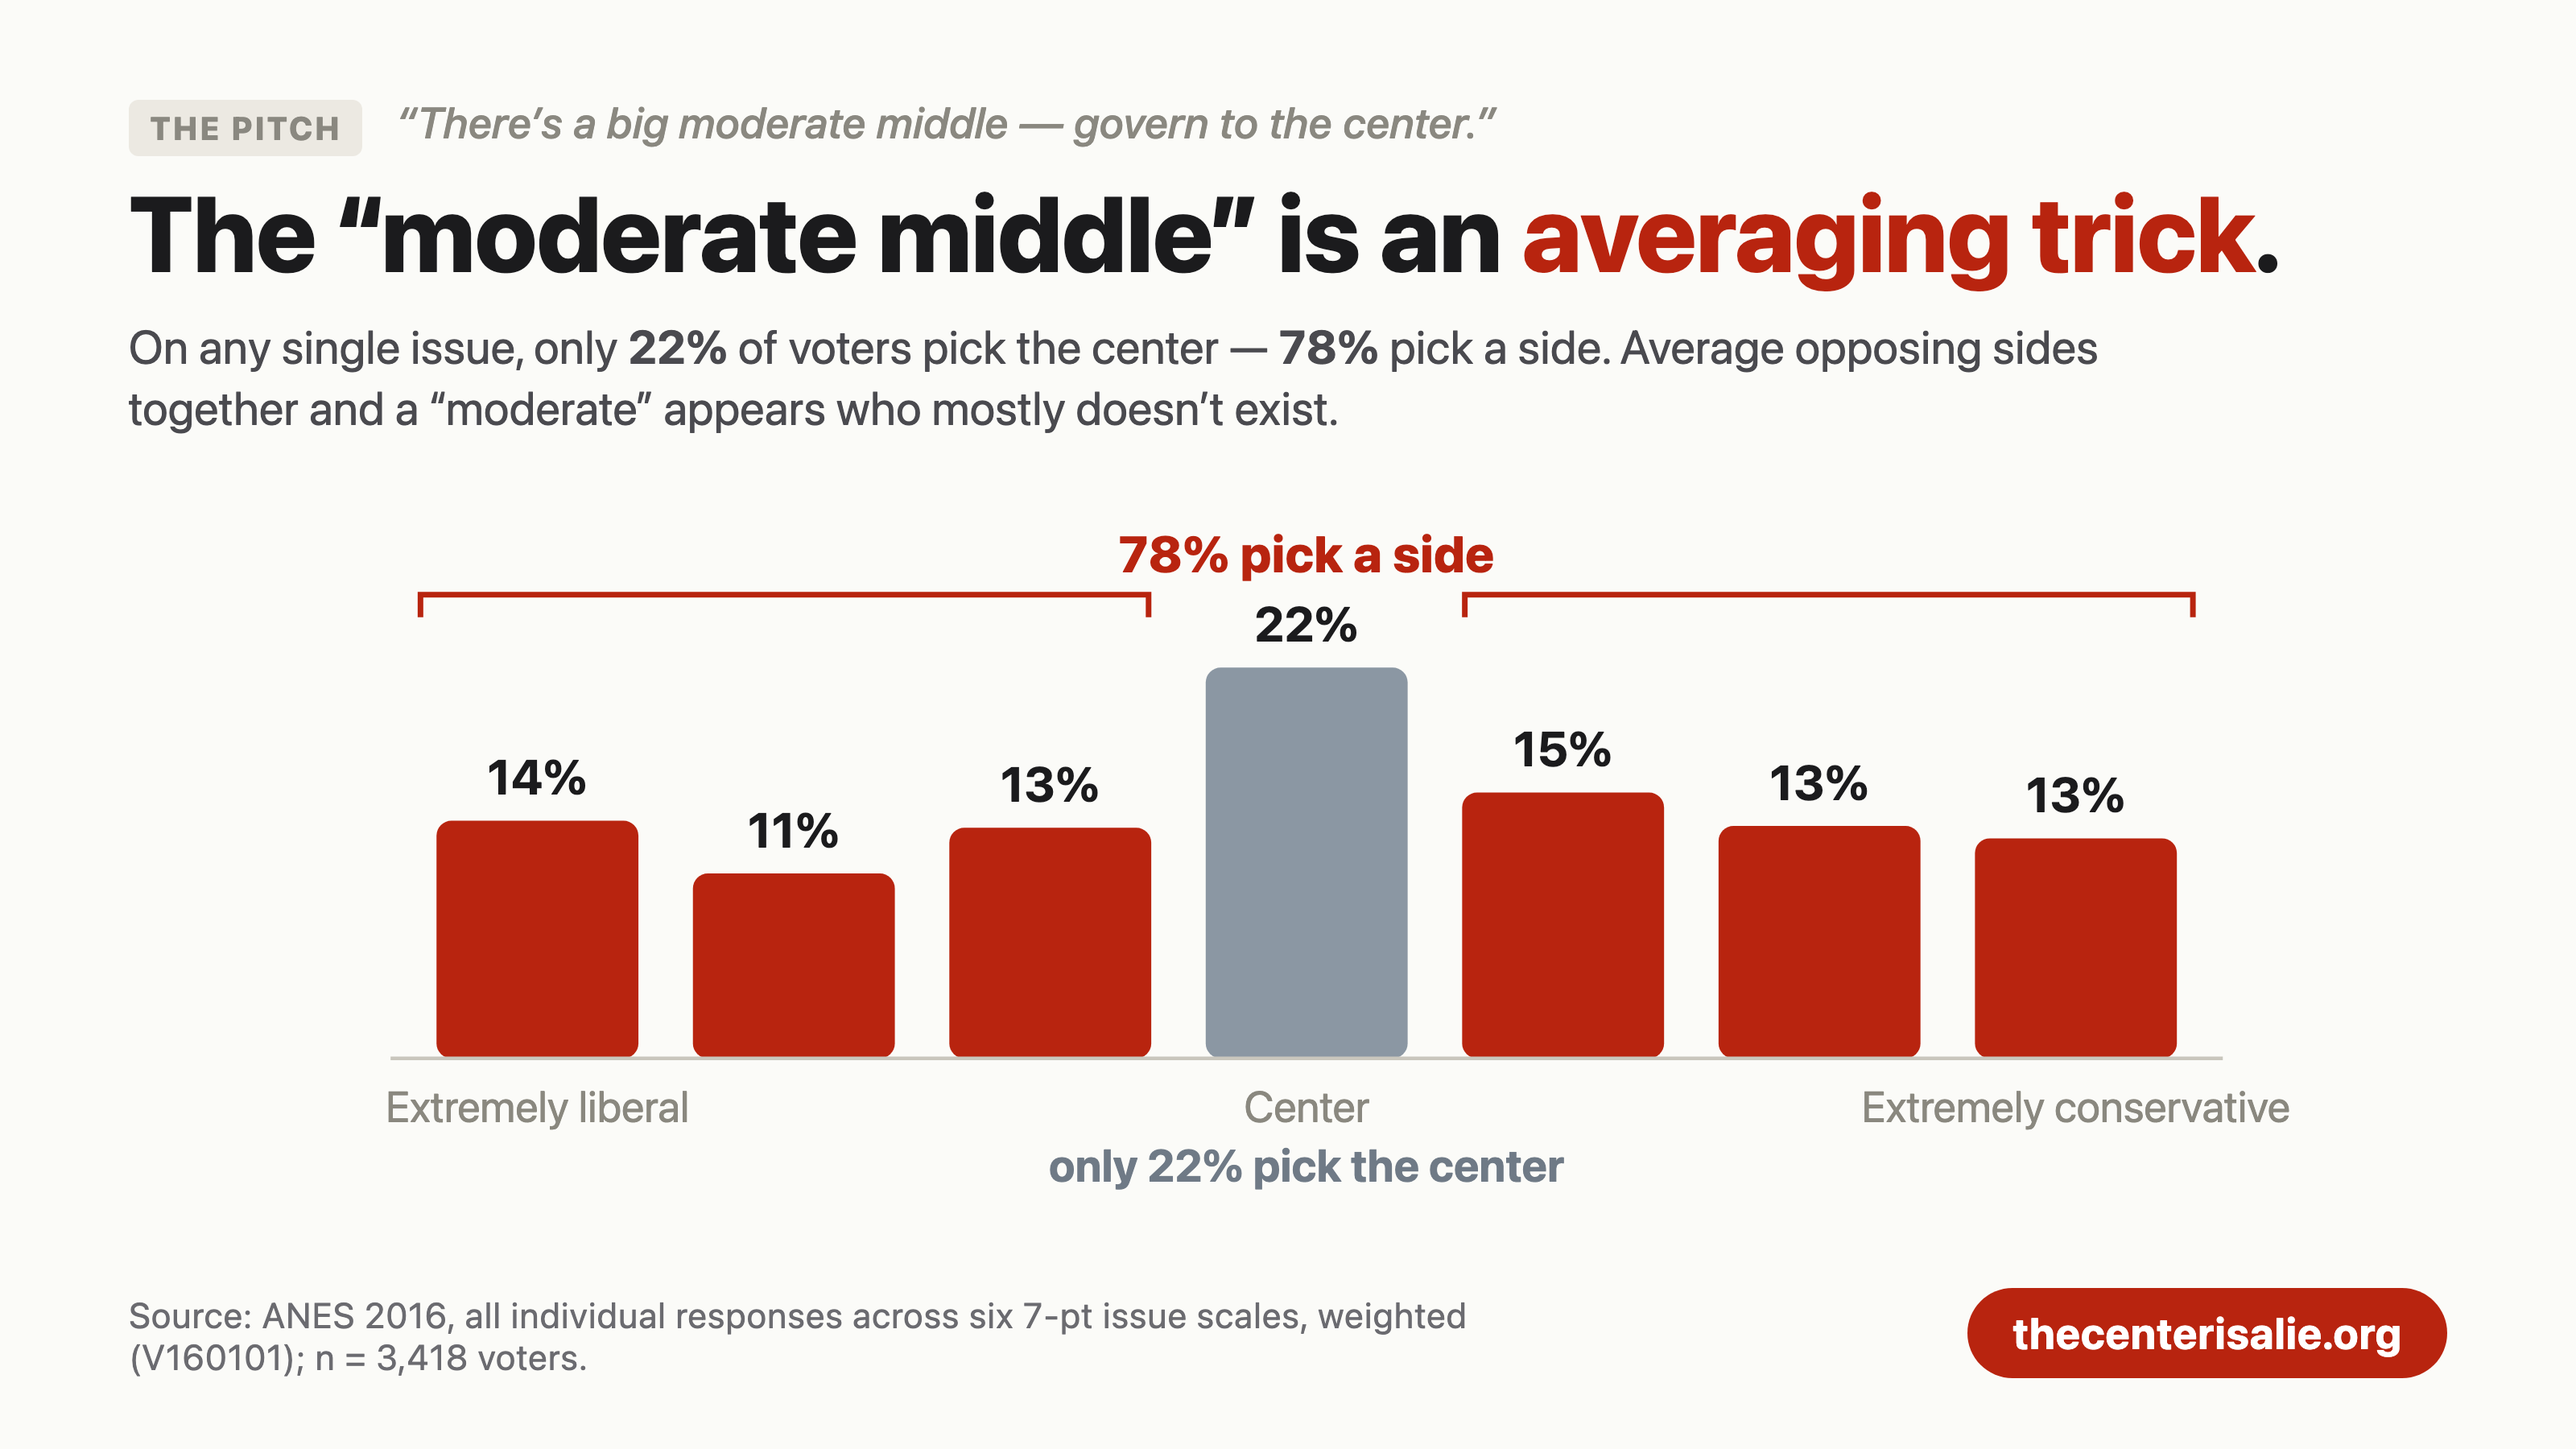
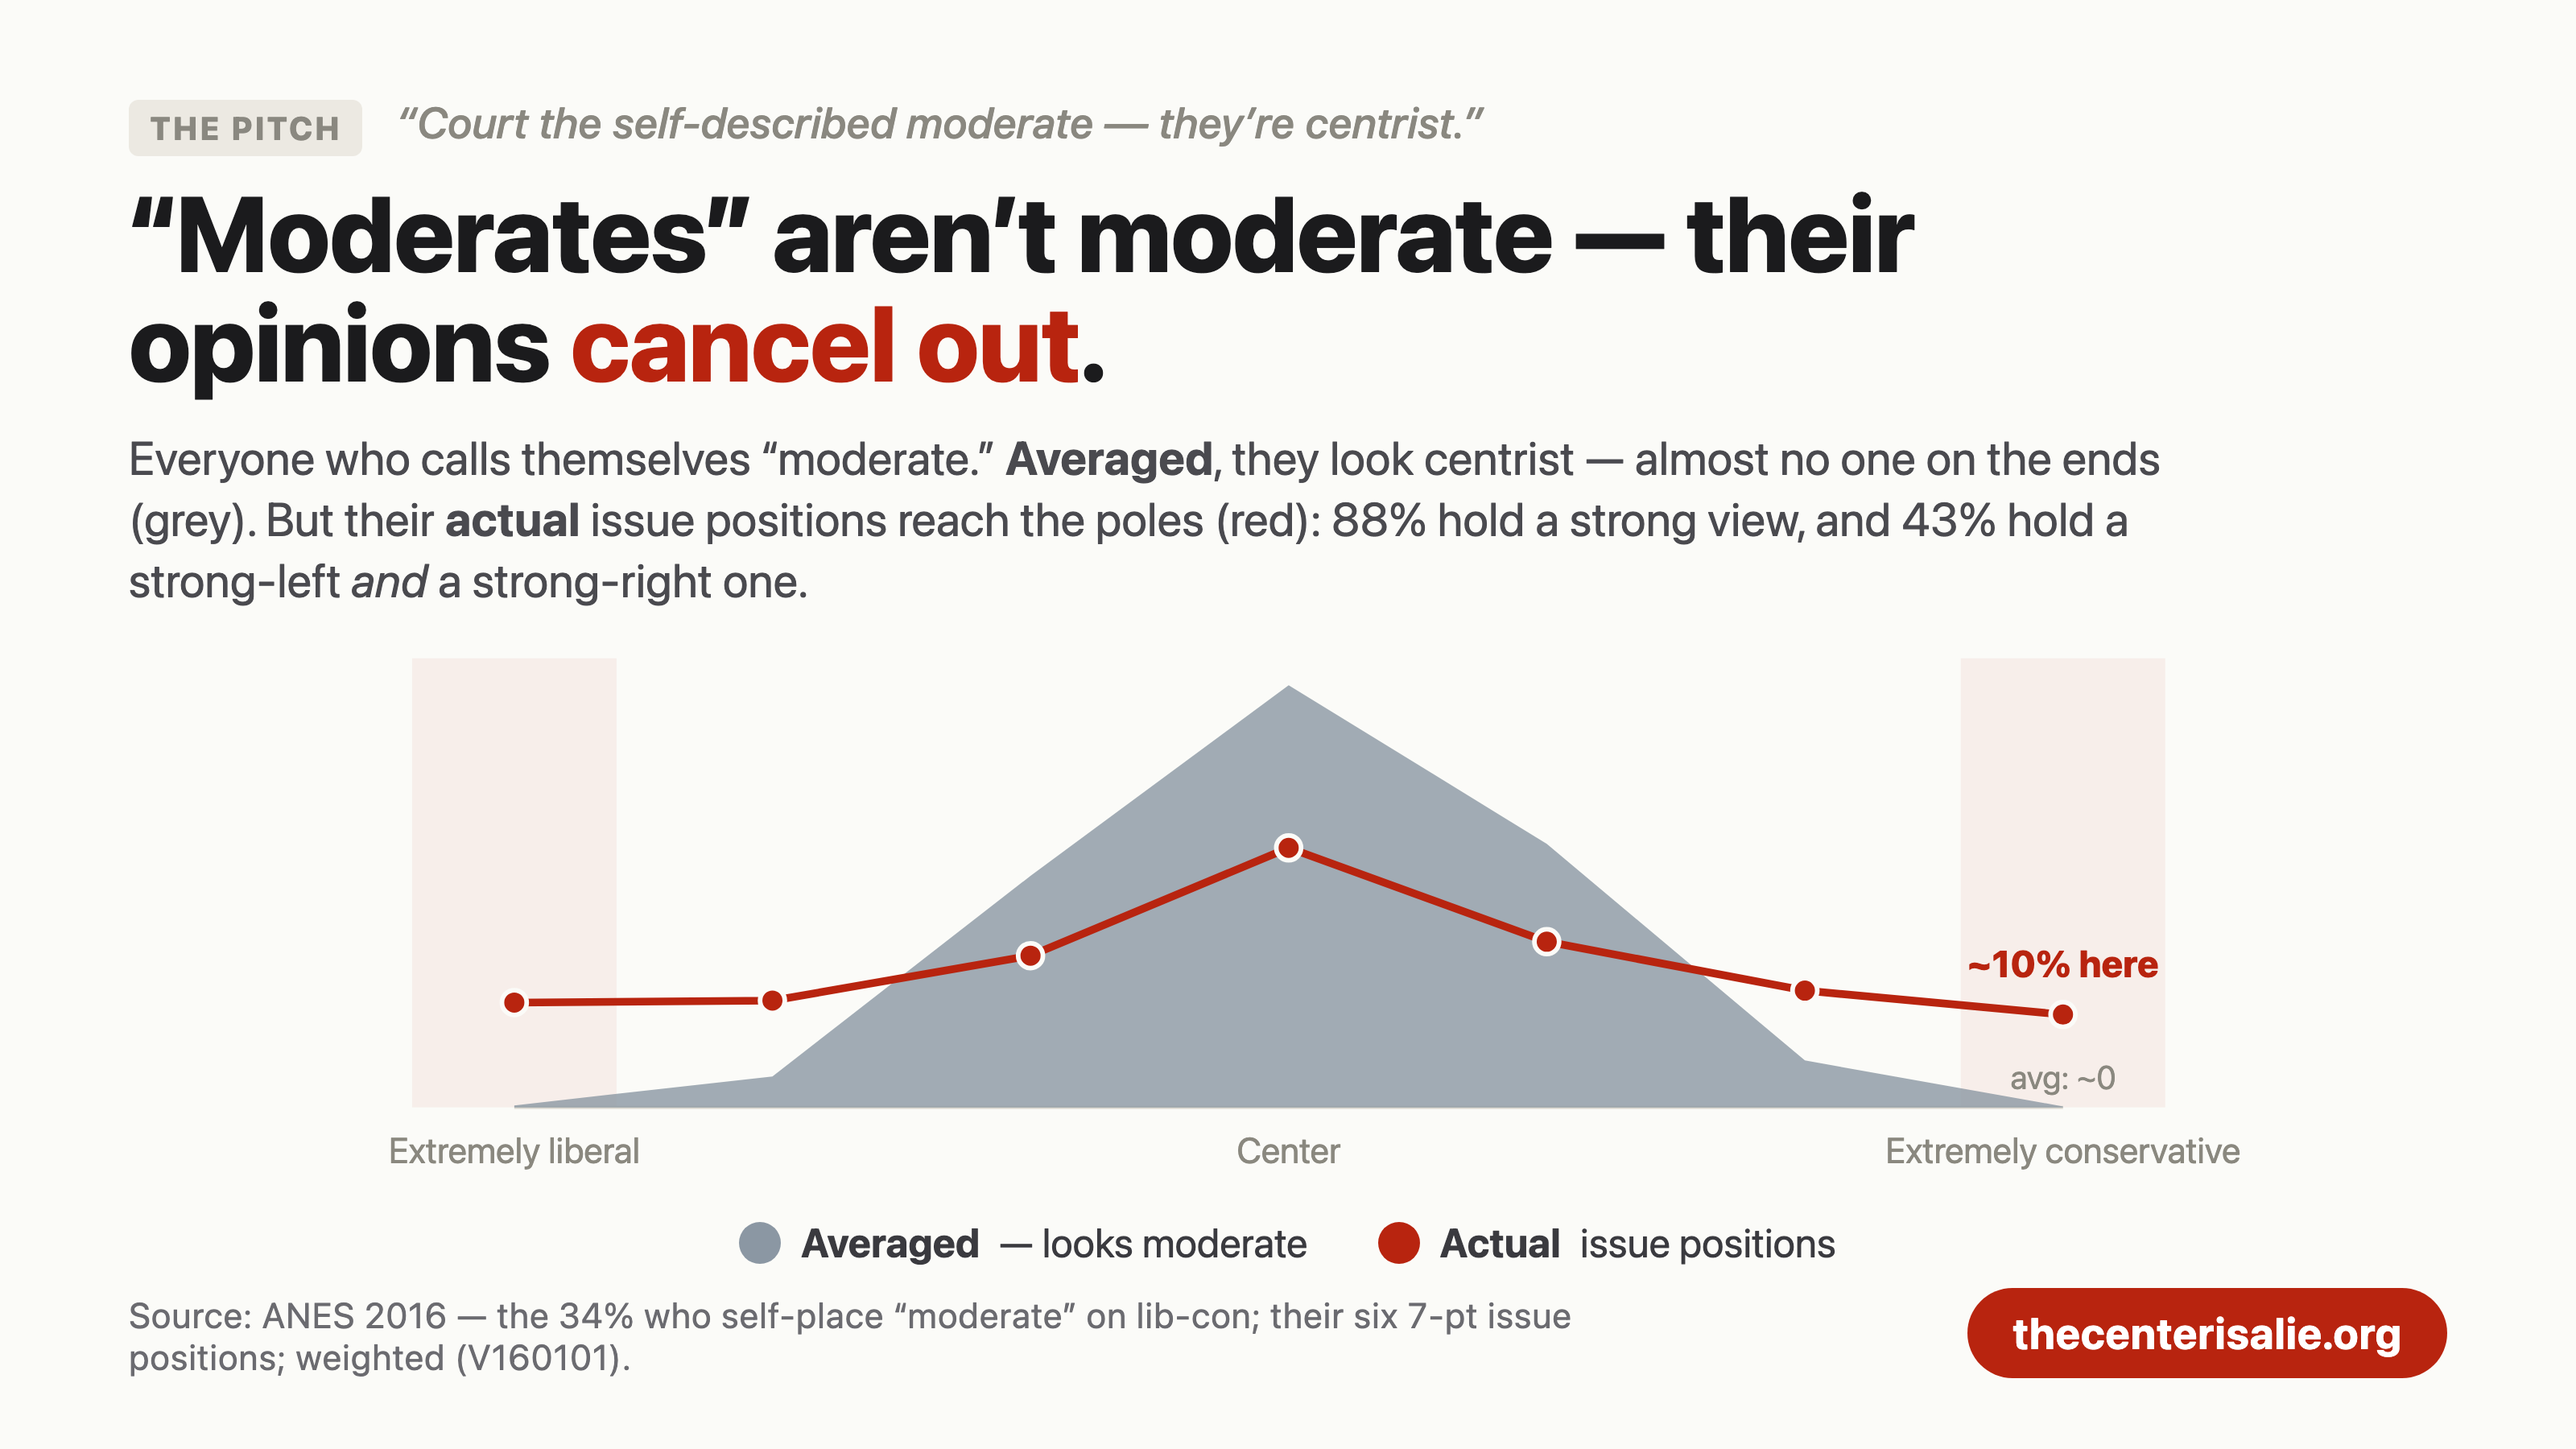
feat(og): rework illusion — self-described moderates, averaged spike vs actual poles
Refocus from full electorate to the 34% who self-place 'moderate'. Averaged, they
spike at center with ~0 at the poles; their actual issue positions reach ~10% at each
extreme. 88% hold a strong view; 43% hold both a strong-left AND strong-right one
(literal cancellation). Highlights the unexpected ends, discounts the expected center.
Numbers from build_center_illusion.py population cut (V161126 in {3,4,5}).

Changed region(s): [[0.0312, 0.1244, 0.9062, 0.8711], [0.0312, 0.9022, 0.625, 0.9644], [0.1562, 0.0622, 0.5938, 0.0933]]

diff --git a/web/og-cards/chart-illusion.html b/web/og-cards/chart-illusion.html
@@ -2,17 +2,22 @@
 <html lang="en"><head><meta charset="utf-8"><link rel="stylesheet" href="./chart-card.css"></head>
 <body>
   <div class="chartcard">
-    <div class="cc-claim"><span class="tag">The pitch</span> &ldquo;There&rsquo;s a big moderate middle &mdash; govern to the center.&rdquo;</div>
-    <div class="cc-title">The &ldquo;moderate middle&rdquo; is an <span class="hl">averaging trick</span>.</div>
-    <div class="cc-sub">On any single issue, only <strong>22%</strong> of voters pick the center &mdash;
-      <strong>78%</strong> pick a side. Average opposing sides together and a &ldquo;moderate&rdquo; appears
-      who mostly doesn&rsquo;t exist.</div>
+    <div class="cc-claim"><span class="tag">The pitch</span> &ldquo;Court the self-described moderate &mdash; they&rsquo;re centrist.&rdquo;</div>
+    <div class="cc-title">&ldquo;Moderates&rdquo; aren&rsquo;t moderate &mdash; their opinions <span class="hl">cancel out</span>.</div>
+    <div class="cc-sub">Everyone who calls themselves &ldquo;moderate.&rdquo; <b>Averaged</b>, they look centrist &mdash; almost
+      no one on the ends (grey). But their <b>actual</b> issue positions reach the poles (red): 88% hold a
+      strong view, and 43% hold a strong-left <em>and</em> a strong-right one.</div>
 
-    <div class="cc-chart"><svg id="ill" viewBox="0 0 1240 392" role="img"
-      aria-label="Distribution of individual issue positions: 22% at center, 78% off-center toward the poles"></svg></div>
+    <div class="cc-chart"><svg id="ill" viewBox="0 0 1240 384" role="img"
+      aria-label="Self-described moderates: averaged positions spike at center with empty ends; actual positions reach the poles"></svg></div>
+
+    <div class="cc-legend">
+      <div class="item"><span class="dot" style="background:#8b97a3"></span><b>Averaged</b> &mdash; looks moderate</div>
+      <div class="item"><span class="dot" style="background:#b8240f"></span><b>Actual</b> issue positions</div>
+    </div>
 
     <div class="cc-foot">
-      <div class="cc-source">Source: ANES 2016, all individual responses across six 7-pt issue scales, weighted (V160101); n = 3,418 voters.</div>
+      <div class="cc-source">Source: ANES 2016 &mdash; the 34% who self-place &ldquo;moderate&rdquo; on lib-con; their six 7-pt issue positions; weighted (V160101).</div>
       <div class="cc-btn">thecenterisalie.org</div>
     </div>
   </div>
@@ -21,29 +26,27 @@
     const NS = 'http://www.w3.org/2000/svg';
     const svg = document.getElementById('ill');
     const el = (t, a) => { const n = document.createElementNS(NS, t); for (const k in a) n.setAttribute(k, a[k]); return n; };
-    // individual issue positions, -3 (extremely lib) .. +3 (extremely con)
-    const V = [13.5, 10.5, 13.1, 22.2, 15.1, 13.2, 12.5];
-    const X0 = 150, X1 = 1110, baseY = 300, topY = 74, YMAX = 24;
-    const band = (X1 - X0) / V.length, bw = 108;
-    const h = (v) => v / YMAX * (baseY - topY);
-    V.forEach((v, j) => {
-      const cx = X0 + band * (j + 0.5), bh = h(v), by = baseY - bh, center = j === 3;
-      svg.appendChild(el('rect', { x: cx - bw / 2, y: by, width: bw, height: bh, rx: 8, fill: center ? '#8b97a3' : '#b8240f' }));
-      const pv = el('text', { x: cx, y: by - 14, 'text-anchor': 'middle', fill: '#1b1b1d', 'font-size': 26, 'font-weight': 700 }); pv.textContent = v.toFixed(0) + '%'; svg.appendChild(pv);
-    });
-    // baseline
-    svg.appendChild(el('line', { x1: X0 - 10, y1: baseY, x2: X1 + 10, y2: baseY, stroke: '#c9c6bd', 'stroke-width': 2 }));
+    const pos = [-3, -2, -1, 0, 1, 2, 3];
+    const AVG = [0.2, 3.1, 23.2, 42.3, 26.4, 4.7, 0.1];   // averaged position — spike, empty ends
+    const IND = [10.5, 10.7, 15.2, 26.0, 16.6, 11.7, 9.3]; // actual issue positions — reaches poles
+    const X0 = 120, X1 = 1120, W = X1 - X0, axisY = 320, topY = 30, YMAX = 45;
+    const x = (p) => X0 + (p + 3) / 6 * W;
+    const y = (v) => axisY - v / YMAX * (axisY - topY);
+    // highlight the poles (the "unexpected" ends)
+    [-3, 3].forEach((p) => svg.appendChild(el('rect', { x: x(p) - 66, y: topY, width: 132, height: axisY - topY, fill: '#b8240f', 'fill-opacity': 0.06 })));
+    svg.appendChild(el('line', { x1: X0, y1: axisY, x2: X1, y2: axisY, stroke: '#d9d6cd', 'stroke-width': 2 }));
+    // AVG filled area (the moderate they appear to be)
+    let dA = `M ${x(-3)} ${axisY}`; pos.forEach((p, i) => dA += ` L ${x(p)} ${y(AVG[i])}`); dA += ` L ${x(3)} ${axisY} Z`;
+    svg.appendChild(el('path', { d: dA, fill: '#8b97a3', 'fill-opacity': 0.8 }));
+    // INDIV bold line + dots (where they actually stand)
+    let dI = ''; pos.forEach((p, i) => dI += (i ? ' L' : 'M') + ` ${x(p)} ${y(IND[i])}`);
+    svg.appendChild(el('path', { d: dI, fill: 'none', stroke: '#b8240f', 'stroke-width': 5, 'stroke-linejoin': 'round' }));
+    pos.forEach((p, i) => svg.appendChild(el('circle', { cx: x(p), cy: y(IND[i]), r: 8, fill: '#b8240f', stroke: '#fbfbf8', 'stroke-width': 3 })));
+    // pole callout: expected ~0 vs actual ~10%
+    const cap = el('text', { x: x(3), y: y(9.3) - 24, 'text-anchor': 'middle', fill: '#b8240f', 'font-size': 24, 'font-weight': 800 }); cap.textContent = '~10% here'; svg.appendChild(cap);
+    const cap2 = el('text', { x: x(3), y: axisY - 12, 'text-anchor': 'middle', fill: '#8a887f', 'font-size': 21 }); cap2.textContent = 'avg: ~0'; svg.appendChild(cap2);
     // x-axis category labels
-    const lab = (j, txt, anchor) => { const t = el('text', { x: X0 + band * (j + 0.5), y: baseY + 34, 'text-anchor': anchor, fill: '#8a887f', 'font-size': 23 }); t.textContent = txt; svg.appendChild(t); };
-    lab(0, 'Extremely liberal', 'middle'); lab(3, 'Center', 'middle'); lab(6, 'Extremely conservative', 'middle');
-    // callouts: 78% (off-center) vs 22% (center)
-    const cCenter = X0 + band * 3.5;
-    const c22 = el('text', { x: cCenter, y: baseY + 66, 'text-anchor': 'middle', fill: '#6f7a86', 'font-size': 24, 'font-weight': 700 }); c22.textContent = 'only 22% pick the center'; svg.appendChild(c22);
-    // bracket over the six off-center bars (left + right groups), label ABOVE the line
-    const bktY = 52;
-    [[X0 + 6, X0 + band * 3 - 16], [X0 + band * 4 + 16, X1 - 6]].forEach(([a, b]) => {
-      svg.appendChild(el('path', { d: `M ${a} ${bktY + 12} L ${a} ${bktY} L ${b} ${bktY} L ${b} ${bktY + 12}`, fill: 'none', stroke: '#b8240f', 'stroke-width': 3 }));
-    });
-    const c78 = el('text', { x: cCenter, y: bktY - 12, 'text-anchor': 'middle', fill: '#b8240f', 'font-size': 27, 'font-weight': 800 }); c78.textContent = '78% pick a side'; svg.appendChild(c78);
+    const lab = (p, txt) => { const t = el('text', { x: x(p), y: axisY + 36, 'text-anchor': 'middle', fill: '#8a887f', 'font-size': 23 }); t.textContent = txt; svg.appendChild(t); };
+    lab(-3, 'Extremely liberal'); lab(0, 'Center'); lab(3, 'Extremely conservative');
   </script>
 </body></html>
